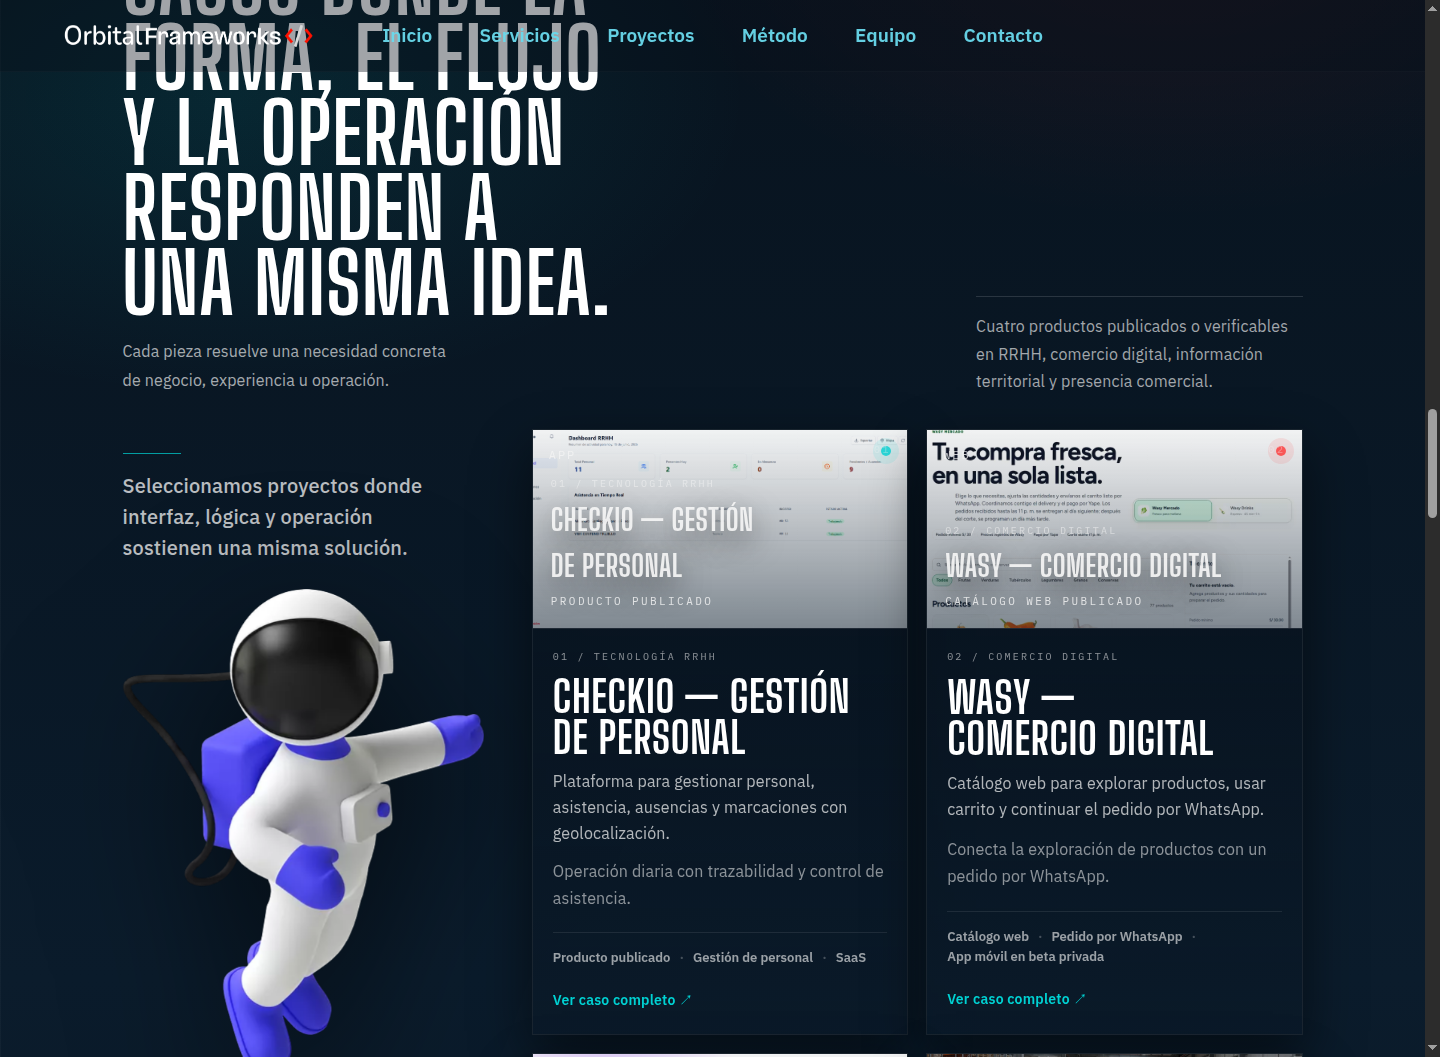
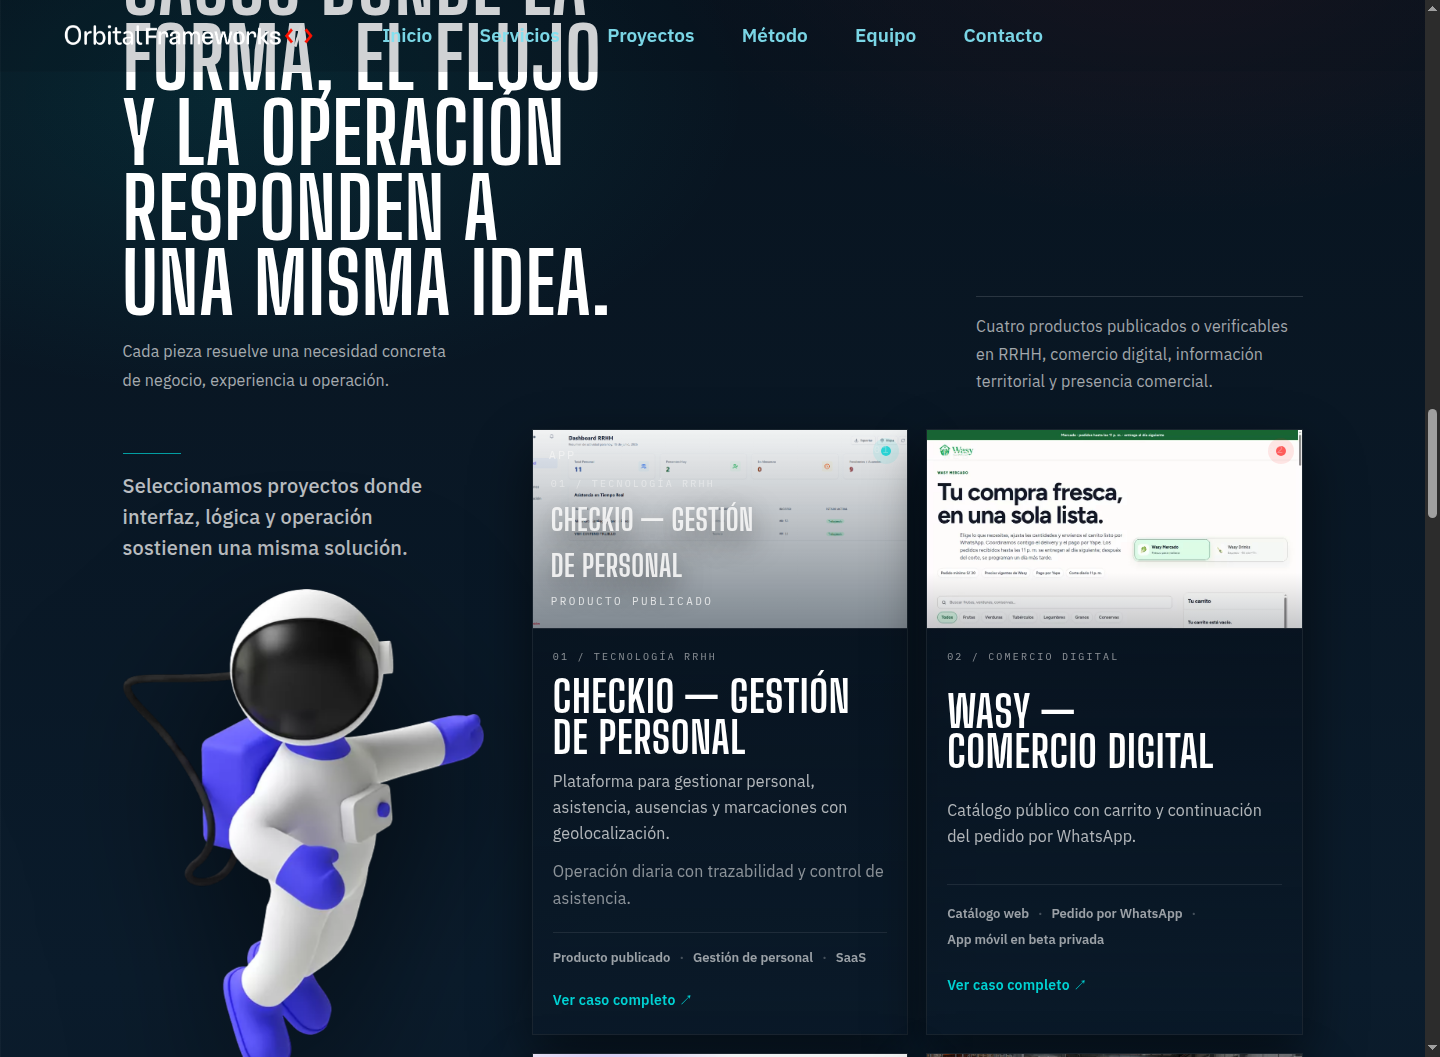
fix(landing): refine Wasy case flow and portfolio presentation

Changed region(s): [[0.625, 0.4059, 0.9062, 0.5932], [0.6562, 0.6244, 0.875, 0.9678], [0.0625, 0.0, 0.4375, 0.0937]]

diff --git a/src/App.tsx b/src/App.tsx
@@ -386,13 +386,13 @@ const workItems: WorkItem[] = [
     url: '/casos/wasy/',
     imageSrc: wasyImg,
     imageSrcSet: `${wasyImg640} 640w, ${wasyImg} 960w`,
-    description: 'Catálogo web para explorar productos, usar carrito y continuar el pedido por WhatsApp.',
+    description: 'Catálogo público con carrito y continuación del pedido por WhatsApp.',
     tags: ['Catálogo web', 'Pedido por WhatsApp', 'App móvil en beta privada'],
     featured: true,
     tone: 'teal',
     sector: 'Comercio digital',
     status: 'Catálogo web publicado',
-    impact: 'Conecta la exploración de productos con un pedido por WhatsApp.',
+    impact: '',
   },
   {
     title: 'Localisa',
@@ -422,6 +422,7 @@ const workItems: WorkItem[] = [
 ]
 
 function WorkCard({ item, index }: { item: WorkItem; index: number }) {
+  const isWasy = item.url === '/casos/wasy/'
   const tone = item.tone === 'red'
     ? { ['--g1' as never]: 'rgba(255,42,42,0.95)', ['--g2' as never]: 'rgba(16,42,67,0.2)' }
     : item.tone === 'teal'
@@ -433,20 +434,30 @@ function WorkCard({ item, index }: { item: WorkItem; index: number }) {
 
   return (
     <a
-      className={`workCard ${item.featured ? 'isFeatured' : ''}`}
+      className={`workCard ${item.featured ? 'isFeatured' : ''} ${isWasy ? 'workCard--wasy' : ''}`}
       style={tone}
       href={item.url}
       target={item.external ? '_blank' : undefined}
       rel={item.external ? 'noopener noreferrer' : undefined}
       data-index={String(index + 1).padStart(2, '0')}
     >
-      <div className="workMedia">
-        <img src={item.imageSrc} srcSet={item.imageSrcSet} sizes={item.imageSrcSet ? '(max-width: 640px) 100vw, 50vw' : undefined} alt={item.title.startsWith('Wasy') ? 'Captura del catálogo web de Wasy con productos y carrito' : `Vista de ${item.title}`} loading="lazy" width={item.imageSrcSet ? 960 : 640} height={item.imageSrcSet ? 704 : 360} decoding="async" />
-        <div className="workMediaOverlay">
-          <div className="workMediaEyebrow">{cardLabel}</div>
-          <div className="workMediaTitle">{item.title}</div>
-          <div className="workMediaSub">{item.status}</div>
-        </div>
+      <div className={`workMedia ${isWasy ? 'workMedia--wasy' : ''}`}>
+        <img
+          src={item.imageSrc}
+          srcSet={item.imageSrcSet}
+          sizes={item.imageSrcSet ? '(max-width: 640px) 100vw, 50vw' : undefined}
+          alt={item.title.startsWith('Wasy') ? 'Captura del catálogo web de Wasy con productos y carrito' : `Vista de ${item.title}`}
+          loading="lazy"
+          width={item.imageSrcSet ? 960 : 640} height={item.imageSrcSet ? 704 : 360}
+          decoding="async"
+        />
+        {!isWasy && (
+          <div className="workMediaOverlay">
+            <div className="workMediaEyebrow">{cardLabel}</div>
+            <div className="workMediaTitle">{item.title}</div>
+            <div className="workMediaSub">{item.status}</div>
+          </div>
+        )}
         <div className="workTop">
           <div className="workMeta"><span className="workKind">{item.kind}</span></div>
           <div className="workGlow" aria-hidden="true" />
@@ -457,7 +468,7 @@ function WorkCard({ item, index }: { item: WorkItem; index: number }) {
         <div className="workIndex">{cardLabel}</div>
         <h3 className="workTitle">{item.title}</h3>
         <p className="workDesc">{item.description}</p>
-        <p className="workImpact">{item.impact}</p>
+        {!isWasy && item.impact && <p className="workImpact">{item.impact}</p>}
         <div className="workTags">
           {item.tags.map((tag) => (
             <span key={tag} className="workTag">{tag}</span>

diff --git a/src/CaseStudyPage.css b/src/CaseStudyPage.css
@@ -52,6 +52,7 @@
 .caseHeroMedia--wasy img { aspect-ratio: 960 / 704; object-fit: contain; }
 
 .caseNarrative { padding: 0 clamp(18px, 5vw, 72px) 104px; display: grid; grid-template-columns: repeat(3, 1fr); gap: 1px; background: rgba(245,245,245,.12); }
+.caseNarrative--wasy { padding-bottom: clamp(32px, 4vw, 56px); }
 .caseNarrative article { padding: 34px; background: #0a1622; }
 .caseNarrative span { font-family: var(--font-mono); font-size: 10px; letter-spacing: .2em; text-transform: uppercase; color: var(--orbital-red); }
 .caseNarrative p { margin: 44px 0 0; font-size: 18px; line-height: 1.75; color: rgba(245,245,245,.72); }
@@ -70,6 +71,92 @@
 .caseFlowGrid article { min-height: 260px; padding: 28px; border: 1px solid rgba(17,17,17,.16); background: rgba(255,255,255,.45); }
 .caseFlowGrid h3, .caseDecisionList h3 { margin: 0 0 18px; font-family: var(--font-display); font-size: 38px; line-height: .95; text-transform: uppercase; }
 .caseFlowGrid p, .caseDecisionList p { margin: 0; line-height: 1.7; }
+
+.caseFlows--wasy {
+  background: #f7f6f2;
+  color: #121921;
+}
+
+.caseFlows--wasy header {
+  display: flex;
+  flex-direction: column;
+  align-items: flex-start;
+  gap: 10px;
+  max-width: 680px;
+  margin-bottom: 36px;
+}
+
+.caseFlows--wasy .caseSectionLabel {
+  color: #0b4f51;
+  font-size: 11px;
+  letter-spacing: .22em;
+  font-weight: 600;
+}
+
+.caseFlows--wasy h2 {
+  font-size: clamp(30px, 3.8vw, 44px);
+  line-height: 1.05;
+  letter-spacing: .01em;
+  max-width: 20ch;
+  color: #121921;
+}
+
+.caseFlows--wasy .caseFlowGrid {
+  display: grid;
+  grid-template-columns: repeat(3, 1fr);
+  gap: 20px;
+}
+
+.caseFlows--wasy .caseFlowStep {
+  min-height: auto;
+  padding: 24px 22px;
+  border: 1px solid rgba(18, 25, 33, 0.12);
+  background: #ffffff;
+  box-shadow: 0 4px 18px rgba(18, 25, 33, 0.04);
+  display: flex;
+  flex-direction: column;
+  transition: transform .18s ease, box-shadow .18s ease, border-color .18s ease;
+}
+
+.caseFlows--wasy .caseFlowStep:hover {
+  transform: translateY(-2px);
+  border-color: rgba(18, 25, 33, 0.24);
+  box-shadow: 0 8px 24px rgba(18, 25, 33, 0.08);
+}
+
+.caseFlowStepMeta {
+  display: flex;
+  align-items: center;
+  justify-content: space-between;
+  margin-bottom: 14px;
+  padding-bottom: 12px;
+  border-bottom: 1px solid rgba(18, 25, 33, 0.08);
+}
+
+.caseFlowStepNumber {
+  font-family: var(--font-mono);
+  font-size: 13px;
+  font-weight: 600;
+  letter-spacing: .1em;
+  color: #0b4f51;
+}
+
+.caseFlows--wasy .caseFlowGrid h3 {
+  margin: 0 0 10px;
+  font-family: var(--font-display);
+  font-size: 26px;
+  line-height: 1.05;
+  letter-spacing: .02em;
+  text-transform: uppercase;
+  color: #121921;
+}
+
+.caseFlows--wasy .caseFlowGrid p {
+  margin: 0;
+  font-size: 15px;
+  line-height: 1.6;
+  color: rgba(18, 25, 33, 0.78);
+}
 
 .caseDecisionList { border-top: 1px solid rgba(245,245,245,.12); }
 .caseDecisionList article { padding: 30px 0; display: grid; grid-template-columns: 90px 1fr; gap: 24px; border-bottom: 1px solid rgba(245,245,245,.12); }
@@ -90,6 +177,7 @@
 @media (max-width: 980px) {
   .caseHero { grid-template-columns: 1fr; min-height: auto; }
   .caseNarrative, .caseFlowGrid { grid-template-columns: 1fr; }
+  .caseFlows--wasy .caseFlowGrid { grid-template-columns: minmax(0, 1fr); }
   .caseCapabilities header, .caseFlows header, .caseDecisions header, .caseEvidence { grid-template-columns: 1fr; }
   .caseCta { align-items: flex-start; flex-direction: column; }
 }

diff --git a/src/CaseStudyPage.tsx b/src/CaseStudyPage.tsx
@@ -52,7 +52,7 @@ export default function CaseStudyPage({ slug }: { slug: CaseStudySlug }) {
           </div>
         </section>
 
-        <section className="caseNarrative">
+        <section className={`caseNarrative${slug === 'wasy' ? ' caseNarrative--wasy' : ''}`}>
           <article>
             <span>01 / Problema</span>
             <p>{study.problem}</p>
@@ -67,29 +67,36 @@ export default function CaseStudyPage({ slug }: { slug: CaseStudySlug }) {
           </article>
         </section>
 
-        <section className="caseCapabilities">
-          <header>
-            <div className="caseSectionLabel">Alcance funcional</div>
-            <h2>Qué existe dentro del producto.</h2>
-          </header>
-          <div className="caseCapabilityGrid">
-            {study.capabilities.map((capability, index) => (
-              <div key={capability} className="caseCapability">
-                <span>{String(index + 1).padStart(2, '0')}</span>
-                <strong>{capability}</strong>
-              </div>
-            ))}
-          </div>
-        </section>
+        {slug !== 'wasy' && study.capabilities.length > 0 && (
+          <section className="caseCapabilities">
+            <header>
+              <div className="caseSectionLabel">Alcance funcional</div>
+              <h2>Qué existe dentro del producto.</h2>
+            </header>
+            <div className="caseCapabilityGrid">
+              {study.capabilities.map((capability, index) => (
+                <div key={capability} className="caseCapability">
+                  <span>{String(index + 1).padStart(2, '0')}</span>
+                  <strong>{capability}</strong>
+                </div>
+              ))}
+            </div>
+          </section>
+        )}
 
-        <section className="caseFlows">
-          <header>
+        <section className={`caseFlows${slug === 'wasy' ? ' caseFlows--wasy' : ''}`}>
+          <header className={slug === 'wasy' ? 'caseFlowsHeader--wasy' : undefined}>
             <div className="caseSectionLabel">Recorrido operativo</div>
             <h2>Cómo se conecta el trabajo.</h2>
           </header>
           <div className="caseFlowGrid">
-            {study.flows.map((flow) => (
-              <article key={flow.title}>
+            {study.flows.map((flow, index) => (
+              <article key={flow.title} className={slug === 'wasy' ? 'caseFlowStep' : undefined}>
+                {slug === 'wasy' && (
+                  <div className="caseFlowStepMeta">
+                    <span className="caseFlowStepNumber">{String(index + 1).padStart(2, '0')}</span>
+                  </div>
+                )}
                 <h3>{flow.title}</h3>
                 <p>{flow.text}</p>
               </article>

diff --git a/src/App.css b/src/App.css
@@ -1620,6 +1620,30 @@
   font-size: 44px;
 }
 
+.workCard--wasy .workMedia {
+  background: #07111b;
+}
+
+.workCard--wasy .workMedia::before {
+  display: none;
+}
+
+.workCard--wasy .workMedia::after {
+  background: linear-gradient(180deg, transparent 72%, rgba(7, 17, 27, 0.45));
+  opacity: 0.5;
+}
+
+.workCard--wasy .workMedia img {
+  object-fit: cover;
+  object-position: top center;
+  filter: none;
+  transform: none;
+}
+
+.workCard--wasy:hover .workMedia img {
+  transform: scale(1.02);
+}
+
 .btn {
   border-radius: 0;
   padding: 14px 18px;
